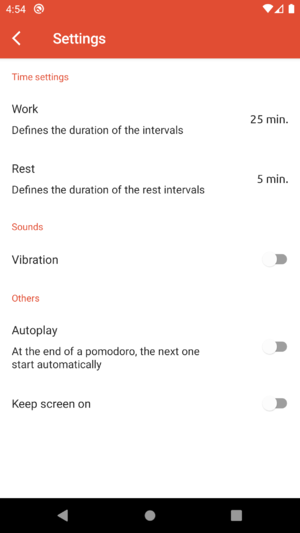
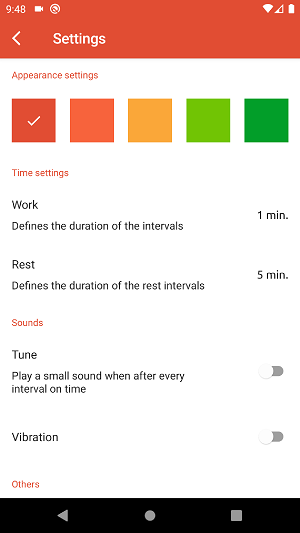
:memo: Update readme
Update screenshots

diff --git a/README.md b/README.md
@@ -1,19 +1,39 @@
 # Pomodoro timer 
 [![Android Build](https://github.com/emenjivar/pomodoro-scheduler/actions/workflows/android_build.yml/badge.svg)](https://github.com/emenjivar/pomodoro-scheduler/actions/workflows/android_build.yml)
 <a href="https://ktlint.github.io/"><img src="https://img.shields.io/badge/code%20style-%E2%9D%A4-FF4081.svg" alt="ktlint"></a>
+[![Made With Love](https://img.shields.io/badge/Made%20With-Love-orange.svg)](https://github.com/chetanraj/awesome-github-badges)
 
-It's a simple and configurable anti procrastination app that helps you focus and get your tasks done.
+It's a simple anti procrastination app that helps you to focus and get your tasks done.
 
-## How it works
+# Table of contents
+- [How it works?](#how-it-works)
+- [Android tech stack](#android-tech-stack)
+- [Would you like to contribute?](#would-you-like-to-contribute)
+- [Extra resources](#extra-resources)
+
+## How it works?
 The app follow the [Pomodoro Technique](https://en.wikipedia.org/wiki/Pomodoro_Technique), breaking the time into two intervals, 25 min to work and 5 min to rest.
 
 ![preview](.github/images/preview.gif)
 
-You can set the time of the intervals on the configuration, put your device and silent mode and keep the screen on.
+When you minimize the app, you can still controll the countdown from your device's notifications.
+
+![notification preview](.github/images/notification.gif)
+
+You can set the time of the intervals, enable sounds and vibration, keep screen on and change the color theme.
 
 ![settings](.github/images/settings.png)
 
-## Would you like to contribute with this project?
+## Android tech stack
+- Written in kotlin
+- [Jetpack compose](https://developer.android.com/jetpack/compose)
+- [Coroutines](https://developer.android.com/kotlin/coroutines)
+- [Preference DataStore](https://developer.android.com/topic/libraries/architecture/datastore)
+- [Koin](https://insert-koin.io/)
+- Clean architecture
+- [Ktlint](https://github.com/pinterest/ktlint), [lint](https://developer.android.com/studio/write/lint) and [detekt](https://github.com/detekt/detekt)
+
+## Would you like to contribute?
 Feel free to open an **issue** and tell me about your idea or create a **pull request**, just make sure to read before the [CONTRIBUTING](CONTRIBUTING.md) guide.
 
 ## Extra resources
